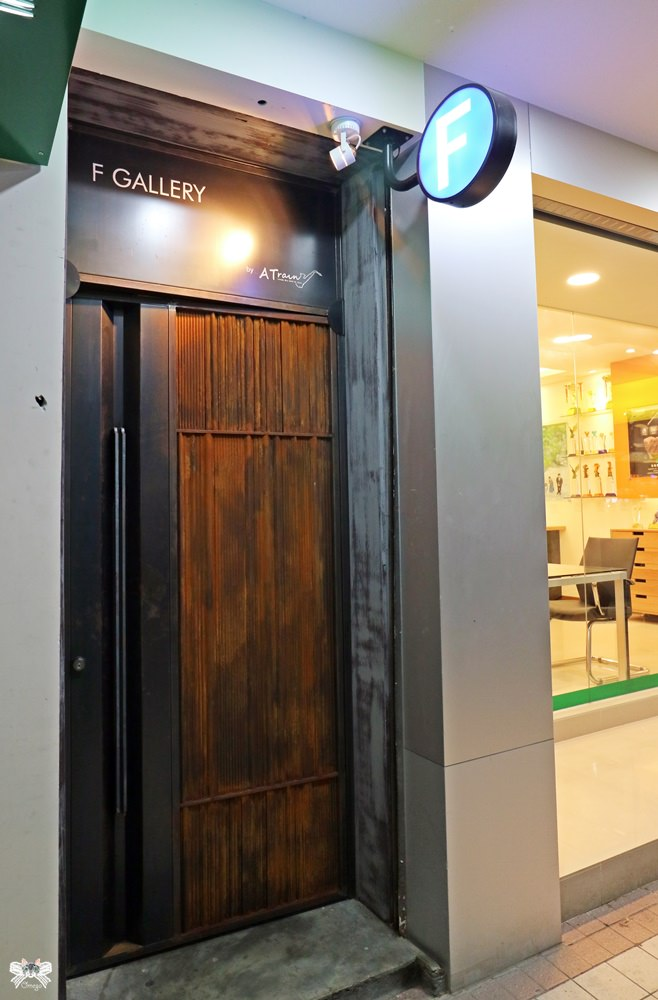
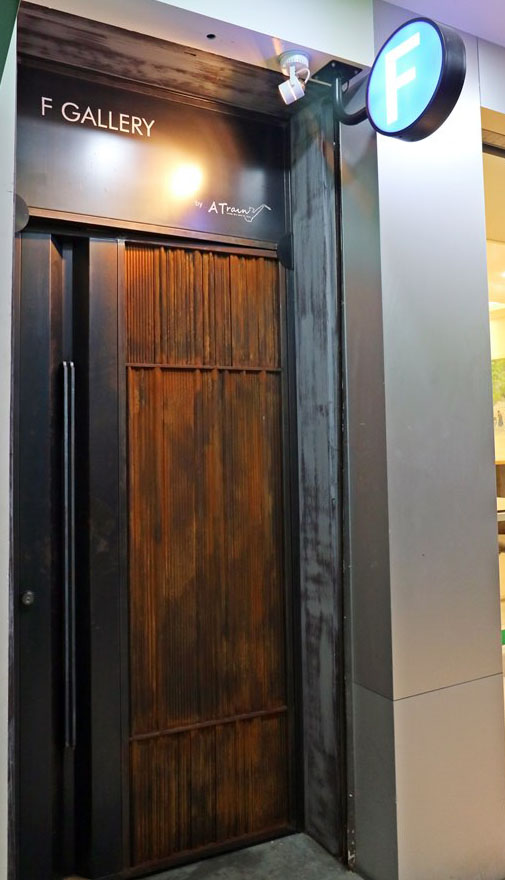
ㄅ

diff --git a/index.html b/index.html
@@ -42,7 +42,7 @@
                             <!-- Post categories-->
                         </header>
                         <!-- Preview image figure-->
-                        <figure class="mb-4"><img class="img-fluid rounded mb-4 mb-lg-0" src="assets/2.jpg" alt="..." /></figure>
+                        <figure class="mb-4"><img class="img-fluid rounded mb-4 mb-lg-0" src="assets/4.jpg" alt="..." /></figure>
                         <!-- Post content-->
                         <section class="mb-5">
                             <p class="fs-5 mb-4">A Train系列店F Gallery by A Train</p>
